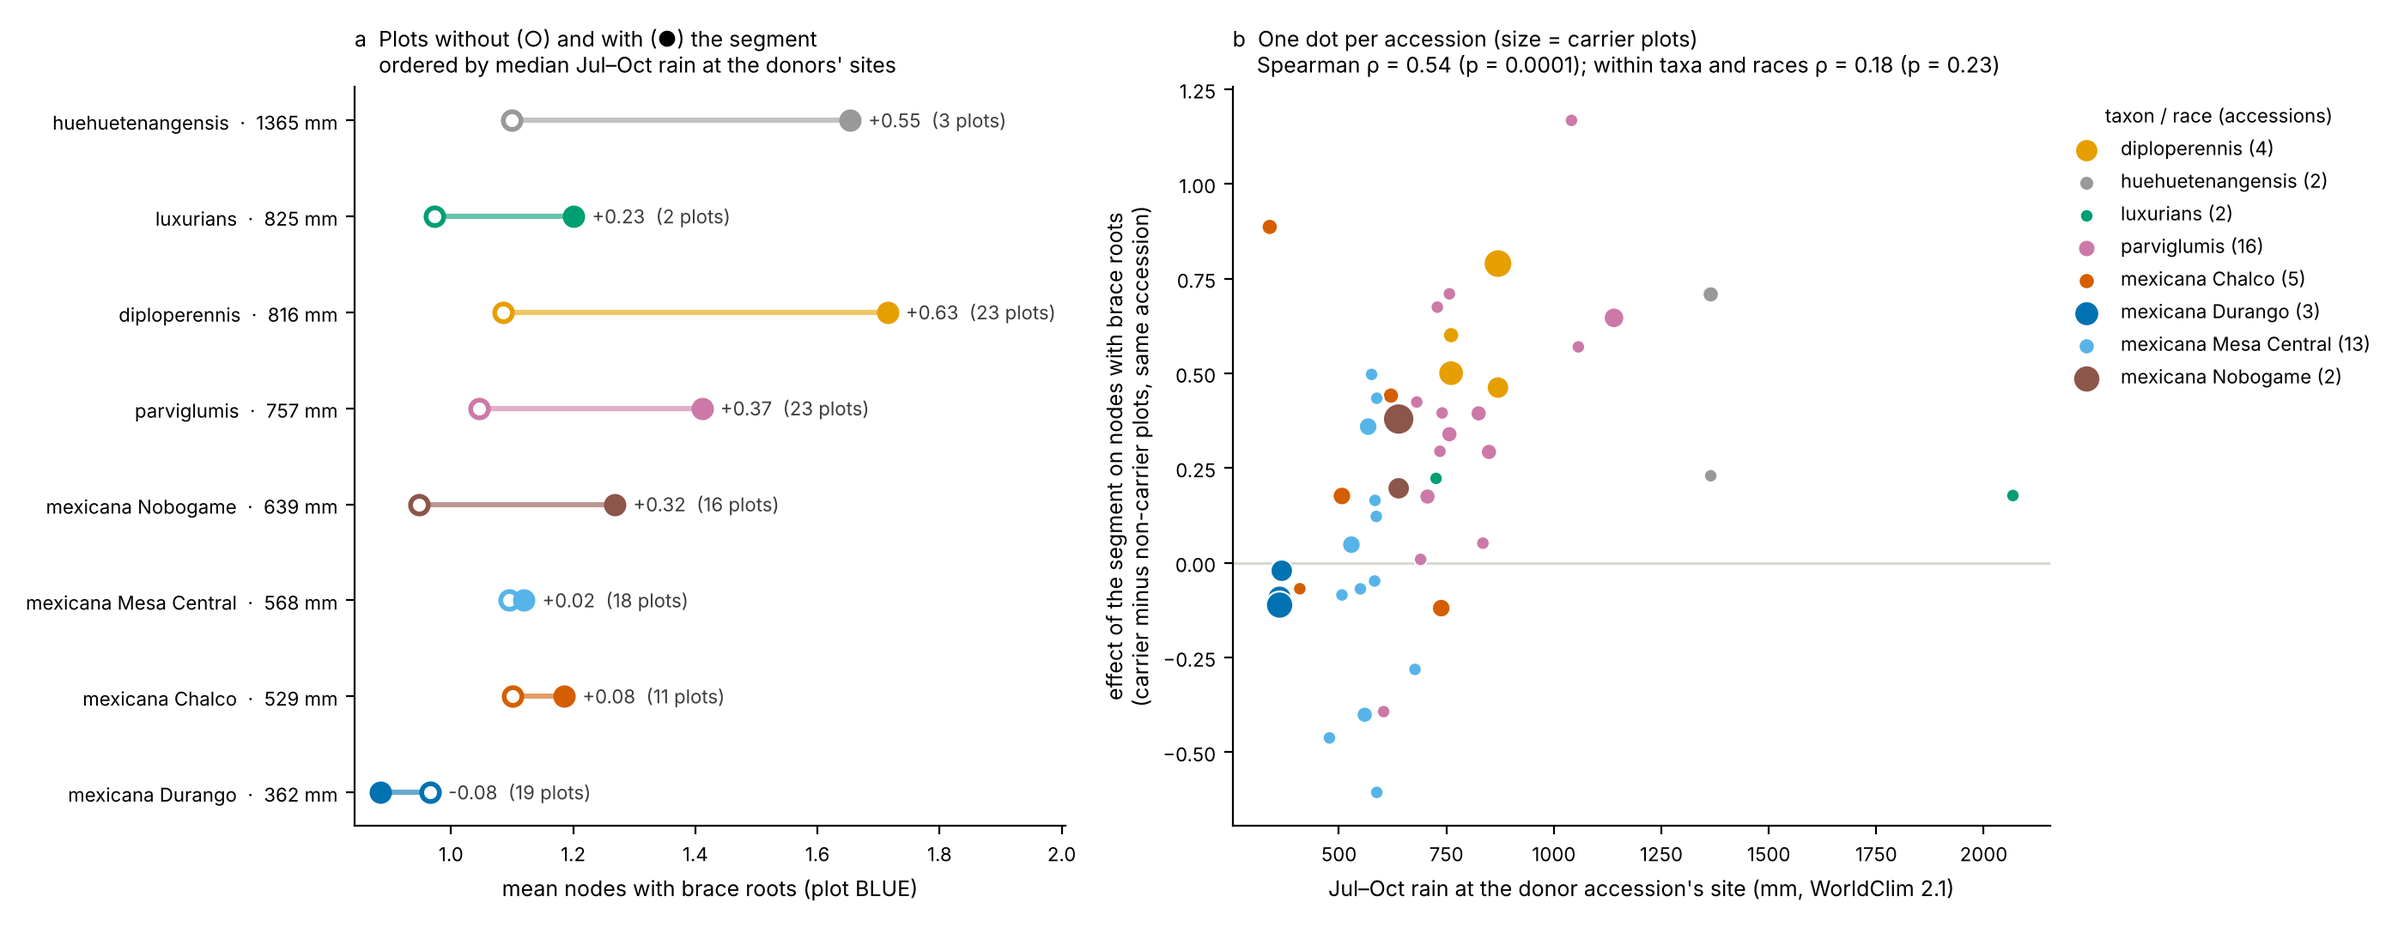
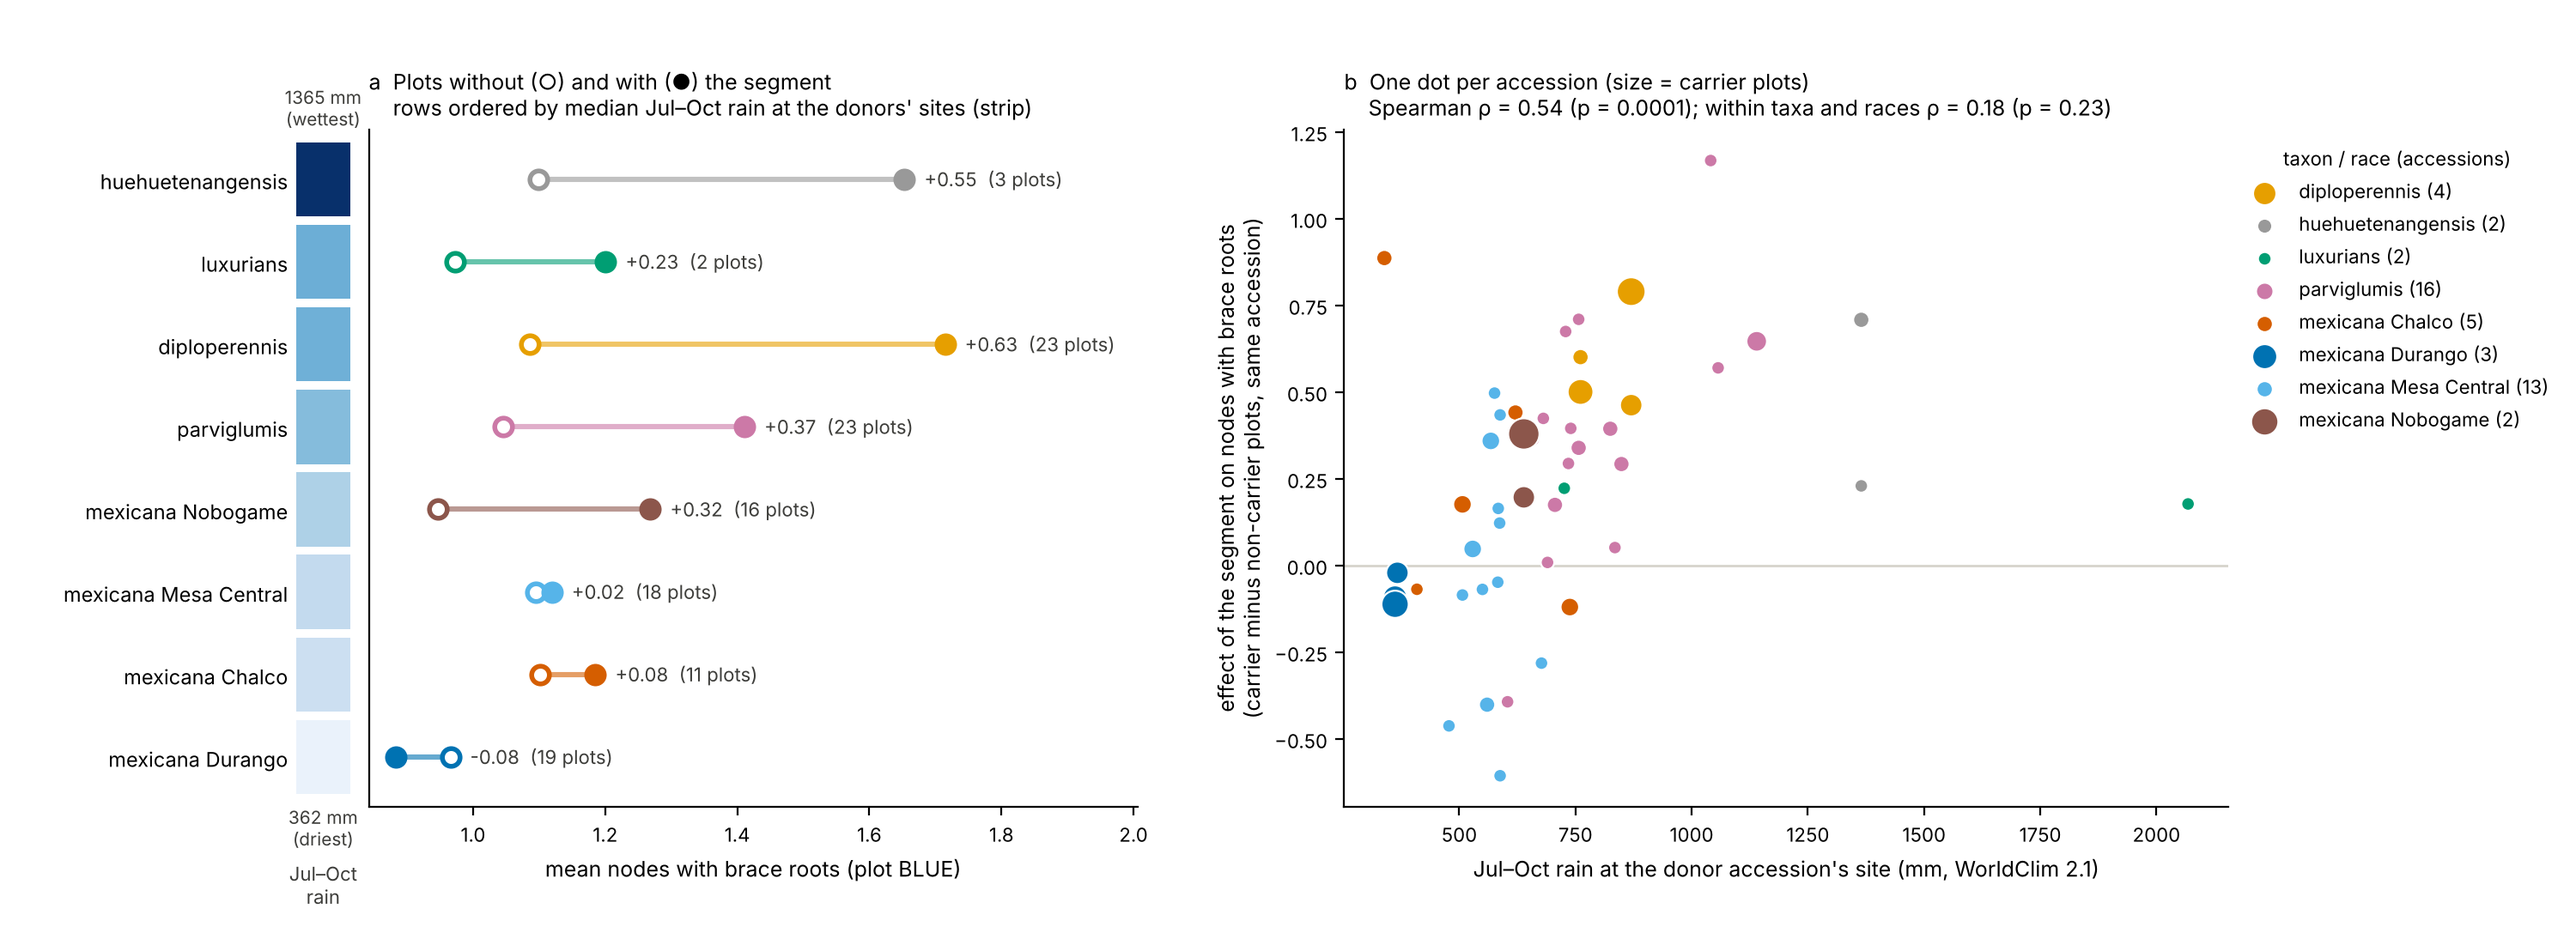
NBR Q8 rain figure: rain as a colour strip (light = dry, dark = wet) instead of numbers

diff --git a/final_script/36e_qtl_rain_figure.py b/final_script/36e_qtl_rain_figure.py
@@ -65,7 +65,24 @@ r, p = spearmanr(A.rain, A.effect)
 cen = A.groupby("g")[["rain", "effect"]].transform(lambda s: s - s.mean())
 rw, pw = spearmanr(cen.rain, cen.effect)
 
-fig, ax = plt.subplots(1, 2, figsize=(14, 5.4), gridspec_kw={"width_ratios": [1, 1.15]})
+fig, (gax, ax0, spacer, ax1) = plt.subplots(1, 4, figsize=(15, 5.4), gridspec_kw={"width_ratios": [0.07, 1, 0.22, 1.15]})
+spacer.axis("off")
+ax = [ax0, ax1]
+# rain strip: one cell per taxon/race, coloured by its median rainy-season rain (light = dry, dark = wet)
+from matplotlib.patches import Rectangle
+from matplotlib.colors import Normalize
+cmap, norm = plt.get_cmap("Blues"), Normalize(Gr.rain.min() * 0.8, Gr.rain.max())
+for i, q in Gr.iterrows():
+    gax.add_patch(Rectangle((0, i - 0.45), 1, 0.9, color=cmap(norm(q.rain)), lw=0))
+gax.set_xlim(0, 1); gax.set_ylim(-0.6, len(Gr) - 0.4)
+gax.set_xticks([])
+gax.set_yticks(np.arange(len(Gr)), [NAME.get(g, g) for g in Gr.g], fontsize=8.5)
+gax.text(0.5, len(Gr) - 0.4, f"{Gr.rain.max():.0f} mm\n(wettest)", ha="center", va="bottom", fontsize=7.5, color="#3d3d3a")
+gax.text(0.5, -0.6, f"{Gr.rain.min():.0f} mm\n(driest)", ha="center", va="top", fontsize=7.5, color="#3d3d3a")
+gax.set_xlabel(f"\n\n{season}\nrain", fontsize=8, color="#3d3d3a")
+for sp in gax.spines.values():
+    sp.set_visible(False)
+gax.tick_params(length=0)
 y = np.arange(len(Gr))
 for i, q in Gr.iterrows():
     c = COL.get(q.g, "#888")
@@ -73,9 +90,9 @@ for i, q in Gr.iterrows():
     ax[0].scatter(q.non, i, s=55, facecolor="white", edgecolor=c, lw=2, zorder=2)
     ax[0].scatter(q.wi, i, s=70, color=c, zorder=3)
     ax[0].text(max(q.non, q.wi) + 0.03, i, f"{q.wi - q.non:+.2f}  ({q.n_with} plots)", va="center", fontsize=8, color="#3d3d3a")
-ax[0].set_yticks(y, [f"{NAME.get(g, g)}  ·  {rr:.0f} mm" for g, rr in zip(Gr.g, Gr.rain)], fontsize=8.5)
+ax[0].set_yticks(y, []); ax[0].set_ylim(-0.6, len(Gr) - 0.4); ax[0].tick_params(axis="y", length=0)
 ax[0].set_xlabel(f"mean {a.label} (plot BLUE)", fontsize=9)
-ax[0].set_title(f"a  Plots without (○) and with (●) the segment\n    ordered by median {season} rain at the donors' sites",
+ax[0].set_title(f"a  Plots without (○) and with (●) the segment\n    rows ordered by median {season} rain at the donors' sites (strip)",
                 fontsize=9, loc="left")
 ax[0].set_xlim(right=ax[0].get_xlim()[1] + 0.25)
 for g, d in A.groupby("g"):
@@ -90,7 +107,7 @@ ax[1].legend(frameon=False, fontsize=8, title="taxon / race (accessions)", title
 for z in ax:
     z.spines[["top", "right"]].set_visible(False)
     z.tick_params(labelsize=8)
-fig.tight_layout()
+fig.subplots_adjust(left=0.115, right=0.865, bottom=0.13, top=0.86, wspace=0.04)
 os.makedirs(os.path.dirname(a.out) or ".", exist_ok=True)
 fig.savefig(a.out, dpi=200)
 print(Gr.round(2).to_string(index=False))
